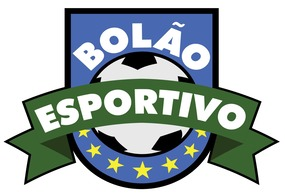
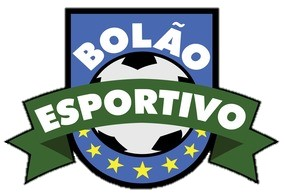
Melhorando a tela principal

diff --git a/src/bolao/view/TelaPrincipalAdministrador.java b/src/bolao/view/TelaPrincipalAdministrador.java
@@ -24,14 +24,14 @@ import javax.swing.table.TableRowSorter;
  *
  * @author RAFAELDEOLIVEIRABAHI
  */
-public class TelaPrincipalApostador extends javax.swing.JFrame {
+public class TelaPrincipalAdministrador extends javax.swing.JFrame {
 
     DefaultTableModel modelo;
 
     /**
      * Creates new form TelaPrincipal
      */
-    public TelaPrincipalApostador() {
+    public TelaPrincipalAdministrador() {
         initComponents();
 
         ControlTime.getInstance();
@@ -120,7 +120,7 @@ public class TelaPrincipalApostador extends javax.swing.JFrame {
         jScrollPane2 = new javax.swing.JScrollPane();
         jTableInformacaoUsuario = new javax.swing.JTable();
         imageLogo = new javax.swing.JLabel(new ImageIcon("view\\Logo.png"));
-        ImageFundo = new javax.swing.JLabel(new ImageIcon("view\\ImageFundo.jpg"));
+        ImageFundo = new javax.swing.JLabel();
         jMenuBar1 = new javax.swing.JMenuBar();
         jMenu1 = new javax.swing.JMenu();
         jMenu2 = new javax.swing.JMenu();
@@ -195,7 +195,7 @@ public class TelaPrincipalApostador extends javax.swing.JFrame {
                 {null, null, null}
             },
             new String [] {
-                "Identificador", "Placar", "Status"
+                "Identificador", "Usuario", "Pontuação"
             }
         ) {
             Class[] types = new Class [] {
@@ -333,21 +333,23 @@ public class TelaPrincipalApostador extends javax.swing.JFrame {
                 }
             }
         } catch (ClassNotFoundException ex) {
-            java.util.logging.Logger.getLogger(TelaPrincipalApostador.class.getName()).log(java.util.logging.Level.SEVERE, null, ex);
+            java.util.logging.Logger.getLogger(TelaPrincipalAdministrador.class.getName()).log(java.util.logging.Level.SEVERE, null, ex);
         } catch (InstantiationException ex) {
-            java.util.logging.Logger.getLogger(TelaPrincipalApostador.class.getName()).log(java.util.logging.Level.SEVERE, null, ex);
+            java.util.logging.Logger.getLogger(TelaPrincipalAdministrador.class.getName()).log(java.util.logging.Level.SEVERE, null, ex);
         } catch (IllegalAccessException ex) {
-            java.util.logging.Logger.getLogger(TelaPrincipalApostador.class.getName()).log(java.util.logging.Level.SEVERE, null, ex);
+            java.util.logging.Logger.getLogger(TelaPrincipalAdministrador.class.getName()).log(java.util.logging.Level.SEVERE, null, ex);
         } catch (javax.swing.UnsupportedLookAndFeelException ex) {
-            java.util.logging.Logger.getLogger(TelaPrincipalApostador.class.getName()).log(java.util.logging.Level.SEVERE, null, ex);
+            java.util.logging.Logger.getLogger(TelaPrincipalAdministrador.class.getName()).log(java.util.logging.Level.SEVERE, null, ex);
         }
+        //</editor-fold>
+        //</editor-fold>
         //</editor-fold>
         //</editor-fold>
 
         /* Create and display the form */
         java.awt.EventQueue.invokeLater(new Runnable() {
             public void run() {
-                new TelaPrincipalApostador().setVisible(true);
+                new TelaPrincipalAdministrador().setVisible(true);
             }
         });
     }

diff --git a/src/bolao/view/TelaCriacaoAposta.java b/src/bolao/view/TelaCriacaoAposta.java
@@ -47,7 +47,7 @@ public class TelaCriacaoAposta extends javax.swing.JFrame {
     private void initComponents() {
 
         jPanel1 = new javax.swing.JPanel();
-        image = new javax.swing.JLabel(new ImageIcon("view\\Simbolo.jpg"));
+        image = new javax.swing.JLabel(new ImageIcon("view\\Logo.png"));
         jLabelTimeA = new javax.swing.JLabel();
         jLabelTimeB = new javax.swing.JLabel();
         SpinnerModel smA = new SpinnerNumberModel(0, 0, Integer.parseInt(PROP.getProperty("MAX_GOLS")), 1); //default value,lower bound,upper bound,increment by

diff --git a/src/bolao/view/TelaCriacaoLogin.java b/src/bolao/view/TelaCriacaoLogin.java
@@ -45,7 +45,7 @@ public class TelaCriacaoLogin extends javax.swing.JDialog {
         txtNome = new javax.swing.JTextField();
         txtSenha = new javax.swing.JPasswordField();
         jButtonSair = new javax.swing.JButton();
-        jImage = new javax.swing.JLabel(new ImageIcon("view\\Simbolo.jpg"));
+        jImage = new javax.swing.JLabel(new ImageIcon("view\\Logo.png"));
         txtUsuario = new javax.swing.JTextField();
         jUsuario1 = new javax.swing.JLabel();
         jButtonCadastrar1 = new javax.swing.JButton();

diff --git a/src/bolao/view/TelaLogin.java b/src/bolao/view/TelaLogin.java
@@ -43,7 +43,7 @@ public class TelaLogin extends javax.swing.JDialog {
         txtSenha = new javax.swing.JPasswordField();
         jButtonEntrar = new javax.swing.JButton();
         jButtonSair = new javax.swing.JButton();
-        jImage = new javax.swing.JLabel(new ImageIcon("view\\Simbolo.jpg"));
+        jImage = new javax.swing.JLabel(new ImageIcon("view\\Logo.png"));
         jButtonCreate = new javax.swing.JButton();
 
         setDefaultCloseOperation(javax.swing.WindowConstants.DISPOSE_ON_CLOSE);
